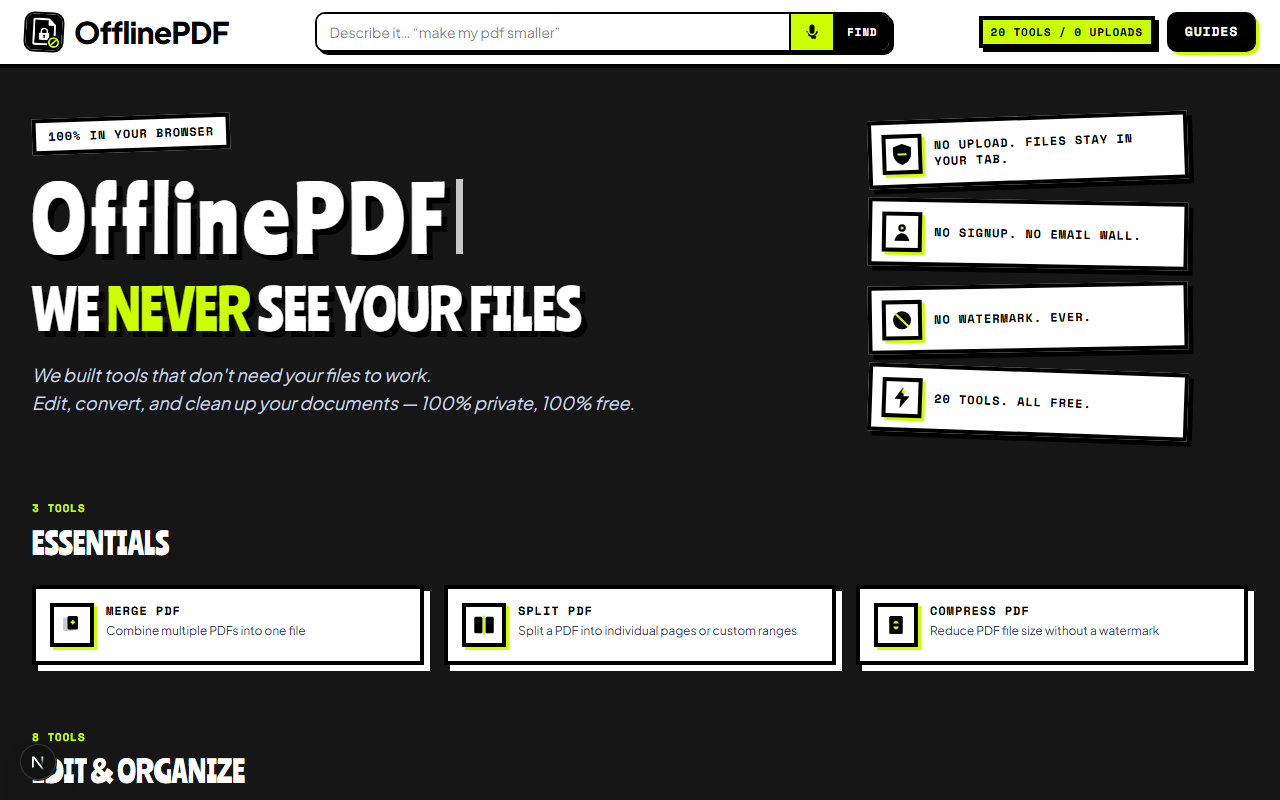
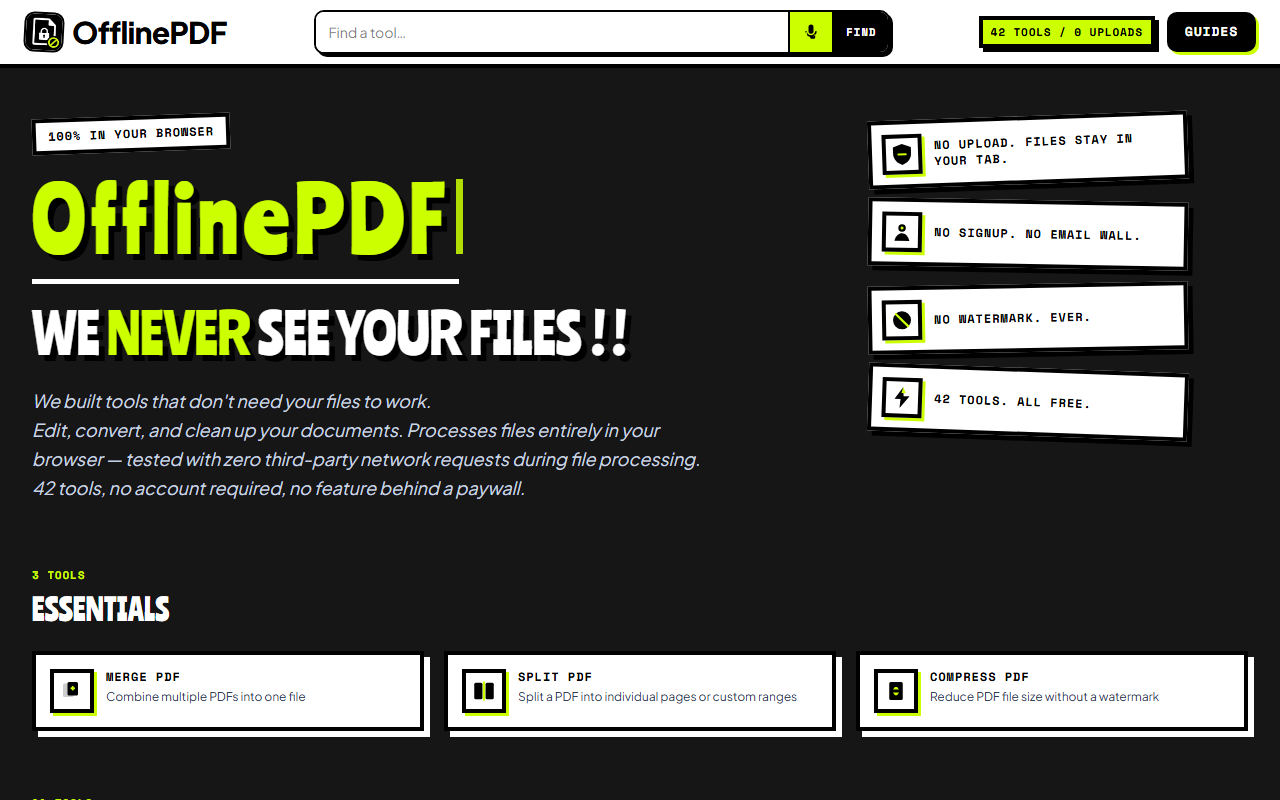
Update README to enhance tool categorization and clarify P2P functionality
- Revised tool categories for better organization: combined 'Edit' and 'Organize' into 'Edit & Organize', and added 'Capture, Share & Create'.
- Updated descriptions for tools to improve clarity and consistency.
- Added details about P2P Share and Whiteboard tools, including network disclosure and camera access for the Scan to PDF tool.
- Included a new script for capturing a fresh homepage screenshot for documentation.

Changed region(s): [[0.0, 0.2188, 1.0, 1.0], [0.25, 0.0, 0.6875, 0.0938], [0.0625, 0.0312, 0.1875, 0.0625]]

diff --git a/README.md b/README.md
@@ -12,7 +12,7 @@ Privacy-first PDF tools that run entirely in your browser. Your files never leav
 
 Most free PDF sites upload your documents to a server. OfflinePDF does the opposite: every tool runs locally via WebAssembly and Web Workers. Close the tab and the file is gone.
 
-- **42 tools** across merge, convert, edit, and security  
+- **42 tools** across essentials, edit & organize, security, convert, and capture & share
 - **Tiered size limits** (light tools up to 300&nbsp;MB; heavy tools 150&nbsp;MB; OCR 75&nbsp;MB / 75 pages)  
 - **Search + voice** in the header to jump to the best tool  
 
@@ -22,11 +22,13 @@ Most free PDF sites upload your documents to a server. OfflinePDF does the oppos
 
 | Category | Tools |
 |----------|--------|
-| **Essentials** | [Merge](/merge-pdf), [Split](/split-pdf), [Compress](/compress-pdf) |
-| **Convert** | [PDF → JPG](/pdf-to-jpg), [PDF → ZIP](/pdf-to-zip), [Images → PDF](/images-to-pdf), [Word → PDF](/word-to-pdf), [PDF → Word](/pdf-to-word), [HTML → PDF](/html-to-pdf), [Markdown → PDF](/markdown-to-pdf), [CSV → PDF](/csv-to-pdf), [Excel → PDF](/excel-to-pdf), [Create PDF](/create-pdf), [PDF → EPUB](/pdf-to-epub), [Invert Colours](/invert-colors) |
-| **Edit** | [Organize](/organize-pages), [Watermark](/add-watermark), [Extract Text](/extract-text), [Rotate](/rotate-pdf), [Crop & Resize](/crop-resize), [Page Numbers](/page-numbers), [Headers & Footers](/headers-footers), [OCR](/ocr-pdf), [Compare PDFs](/compare-pdfs), [Repair PDF](/repair-pdf) |
-| **More** | [PowerPoint to PDF](/powerpoint-to-pdf), [PDF to PowerPoint](/pdf-to-powerpoint), [PDF to Excel](/pdf-to-excel), [PDF to HTML](/pdf-to-html), [eBook (EPUB) to PDF](/ebook-to-pdf), [Edit PDF Text](/edit-pdf-text), [Fingerprint PDF](/fingerprint-pdf), [POS Billing](/pos-billing), [Scan to PDF](/scan-to-pdf), [PDF to Audio](/pdf-to-audio) (listen only), **[P2P Share](/p2p-share) and [Whiteboard](/whiteboard)** (the only two that use the network: WebRTC via PeerJS signaling + Google STUN) |
-| **Security** | [Encrypt](/encrypt-pdf), [Remove Password](/remove-password), [Flatten](/flatten-pdf), [Redact](/redact-pdf), [Privacy Scanner](/privacy-scanner) |
+| **Essentials** | [Merge PDF](/merge-pdf), [Split PDF](/split-pdf), [Compress PDF](/compress-pdf) |
+| **Edit & Organize** | [Organize Pages](/organize-pages), [Add Watermark](/add-watermark), [Extract Text](/extract-text), [Rotate PDF](/rotate-pdf), [Crop & Resize](/crop-resize), [Page Numbers](/page-numbers), [Headers & Footers](/headers-footers), [OCR PDF](/ocr-pdf), [Compare PDFs](/compare-pdfs), [Repair PDF](/repair-pdf), [Edit PDF Text](/edit-pdf-text) |
+| **Security** | [Encrypt PDF](/encrypt-pdf), [Remove Password](/remove-password), [Flatten PDF](/flatten-pdf), [Redact PDF](/redact-pdf), [Privacy Scanner](/privacy-scanner), [Fingerprint PDF](/fingerprint-pdf) |
+| **Convert** | [PDF to JPG](/pdf-to-jpg), [Images to PDF](/images-to-pdf), [Word to PDF](/word-to-pdf), [Invert Colours](/invert-colors), [PDF to ZIP](/pdf-to-zip), [Markdown to PDF](/markdown-to-pdf), [HTML to PDF](/html-to-pdf), [CSV to PDF](/csv-to-pdf), [Excel to PDF](/excel-to-pdf), [PDF to Word](/pdf-to-word), [Create PDF](/create-pdf), [PDF to EPUB](/pdf-to-epub), [PowerPoint to PDF](/powerpoint-to-pdf), [PDF to PowerPoint](/pdf-to-powerpoint), [PDF to Excel](/pdf-to-excel), [PDF to HTML](/pdf-to-html), [eBook to PDF](/ebook-to-pdf), [PDF to Audio](/pdf-to-audio) *(listen only)* |
+| **Capture, Share & Create** | [POS Billing](/pos-billing), [Scan to PDF](/scan-to-pdf), [P2P Share](/p2p-share)\*, [Collaborative Whiteboard](/whiteboard)\* |
+
+*\* P2P Share and Whiteboard connect two browsers directly peer-to-peer using WebRTC DataChannel (PeerJS signaling + Google STUN). No files or drawings are ever stored on any server.*
 
 How-to guides live under `/blog`.
 
@@ -37,14 +39,18 @@ How-to guides live under `/blog`.
 | Layer | Stack |
 |-------|--------|
 | App | Next.js 16 (App Router, static `output: "export"`), React 19, TypeScript |
-| UI | Tailwind CSS 4 |
+| UI | Tailwind CSS 4, `@tailwindcss/typography` |
 | PDF | pdf-lib, pdf.js |
 | Encrypt | qpdf-wasm (AES-256; COOP/COEP only on encrypt/unlock routes — see `vercel.json`) |
 | OCR | tesseract.js (English model bundled; no CDN) |
 | Word | mammoth (Word → PDF), docx (PDF → Word) |
+| PowerPoint | pptxgenjs (PDF → PowerPoint), fflate XML parser (PowerPoint → PDF) |
+| Spreadsheets | SheetJS (`xlsx` v0.20.3 via CDN) for Excel → PDF and PDF → Excel |
 | HTML / Markdown | DOMPurify, marked |
-| Spreadsheets | SheetJS (`xlsx`) for the first sheet only |
 | Zip | fflate |
+| Realtime & P2P | PeerJS (WebRTC DataChannel), Google STUN (`p2p-share`, `whiteboard`) |
+| Camera & Audio | Web MediaDevices (`scan-to-pdf`), Web Speech Synthesis (`pdf-to-audio`) |
+| QR Codes | qrcode-generator (`p2p-share`, `whiteboard`) |
 | Hosting | Vercel (auto-deploy from `main`) |
 
 All processing runs in a single Web Worker entry (`lib/workers/pdf.worker.ts`) that lazy-loads per-tool engines.
@@ -72,6 +78,7 @@ npm run build    # static site → out/
 | `npm run check-links` | Every internal link in `out/` resolves |
 | `npm run e2e` | Playwright against `out/` with prod headers; asserts no external requests |
 | `npm run ci` | lint → limits → engines → build → check-links |
+| `node scripts/capture-screenshot.mjs` | Capture fresh homepage screenshot for README (`docs/screenshot.png`) |
 
 ---
 
@@ -100,14 +107,22 @@ app/                 Home, tool routes, blog, privacy, terms
 components/          Header (search + voice), upload, download, tool shell
 lib/tools.ts         Tool registry (SEO, FAQ, how-to)
 lib/pdf/             Validation, limits, load/render helpers
+lib/p2p/             WebRTC room signaling & data transfer (P2P Share & Whiteboard)
 lib/workers/         Worker entry + engines/
 content/blog/        Markdown how-to posts
-scripts/             copy-assets, e2e, check-links
+scripts/             copy-assets, capture-screenshot, e2e, check-links
 .github/workflows/   CI
+docs/                Documentation assets (screenshot.png)
 ```
 
 ---
 
 ## Privacy
 
-Files are read into memory in your browser, processed there, and offered as a download. They are not uploaded to OfflinePDF servers. Passwords used for encrypt/unlock never leave the device. See `/privacy` and `/terms` on the live site.
+Files are read into memory in your browser, processed there, and offered as a download. They are not uploaded to OfflinePDF servers. Passwords used for encrypt/unlock never leave the device.
+
+- **Client-only by default:** 40 of 42 tools run with zero external network requests during processing.
+- **P2P Share & Whiteboard network disclosure:** These two tools connect browsers directly via WebRTC DataChannel. The browser contacts the public PeerJS signaling service (`0.peerjs.com`) and Google STUN servers to broker the peer connection (seeing IP addresses and room IDs, never file contents or drawings). Content flows directly between browsers and is never stored on any server.
+- **Camera:** Scan to PDF accesses your device camera strictly in-tab with no uploads.
+
+See `/privacy` and `/terms` on the live site for details.
